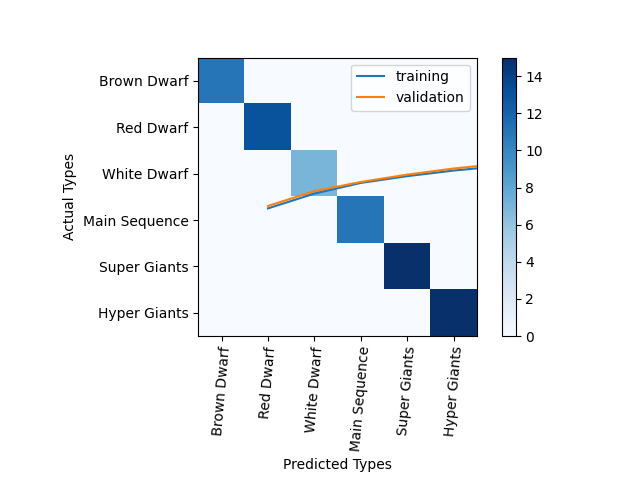
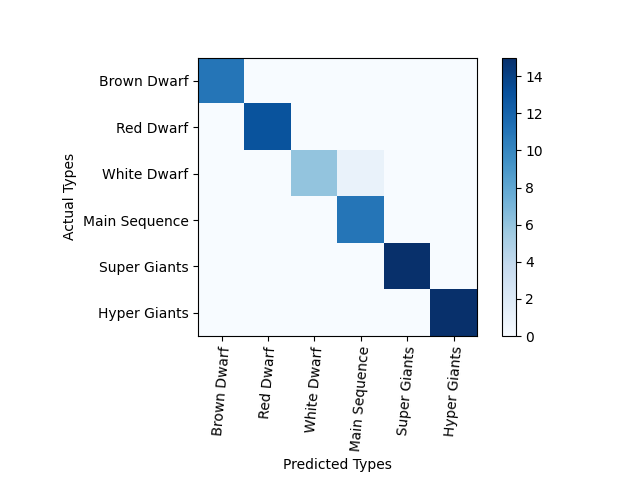
fixed supervision

diff --git a/ml-train.py b/ml-train.py
@@ -13,18 +13,12 @@ stars_classes = ['Brown Dwarf', 'Red Dwarf', 'White Dwarf', 'Main Sequence', 'Su
 
 # Scale the data
 # Scale the columns "Temperature (K)", "Luminosity(L/Lo)", "Radius(R/Ro)", "Absolute magnitude(Mv)"
-stars['Temperature (K)'] = stars['Temperature (K)'].apply(
-    lambda x: (x - stars['Temperature (K)'].min()) / (stars['Temperature (K)'].max() - stars['Temperature (K)'].min()))
-stars['Luminosity(L/Lo)'] = stars['Luminosity(L/Lo)'].apply(lambda x: (x - stars['Luminosity(L/Lo)'].min()) / (
-            stars['Luminosity(L/Lo)'].max() - stars['Luminosity(L/Lo)'].min()))
-stars['Radius(R/Ro)'] = stars['Radius(R/Ro)'].apply(
-    lambda x: (x - stars['Radius(R/Ro)'].min()) / (stars['Radius(R/Ro)'].max() - stars['Radius(R/Ro)'].min()))
-stars['Absolute magnitude(Mv)'] = stars['Absolute magnitude(Mv)'].apply(
-    lambda x: (x - stars['Absolute magnitude(Mv)'].min()) / (
-                stars['Absolute magnitude(Mv)'].max() - stars['Absolute magnitude(Mv)'].min()))
+stars['Temperature (K)'] = stars['Temperature (K)'].apply(lambda x: (x - stars['Temperature (K)'].min()) / (stars['Temperature (K)'].max() - stars['Temperature (K)'].min()))
+stars['Luminosity(L/Lo)'] = stars['Luminosity(L/Lo)'].apply(lambda x: (x - stars['Luminosity(L/Lo)'].min()) / (stars['Luminosity(L/Lo)'].max() - stars['Luminosity(L/Lo)'].min()))
+stars['Radius(R/Ro)'] = stars['Radius(R/Ro)'].apply(lambda x: (x - stars['Radius(R/Ro)'].min()) / (stars['Radius(R/Ro)'].max() - stars['Radius(R/Ro)'].min()))
+stars['Absolute magnitude(Mv)'] = stars['Absolute magnitude(Mv)'].apply(lambda x: (x - stars['Absolute magnitude(Mv)'].min()) / (stars['Absolute magnitude(Mv)'].max() - stars['Absolute magnitude(Mv)'].min()))
 
-features = ['Temperature (K)', 'Luminosity(L/Lo)', 'Radius(R/Ro)', 'Absolute magnitude(Mv)', 'Star type', 'Star color',
-            'Spectral Class']
+features = ['Temperature (K)', 'Luminosity(L/Lo)', 'Radius(R/Ro)', 'Absolute magnitude(Mv)', 'Star color', 'Spectral Class']
 label = 'Star type'
 
 # Split data 70%-30% into training and test sets
@@ -32,13 +26,6 @@ x_train, x_test, y_train, y_test = train_test_split(stars[features].values,
                                                     stars[label].values,
                                                     test_size=0.30,
                                                     random_state=0)
-
-# print('Training Set: %d, Test Set: %d \n' % (len(x_train), len(x_test)))
-# print("Sample of features and labels:")
-
-# Take a look at the first 25 training features and corresponding labels
-# for n in range(0, 24):
-#     print(x_train[n], y_train[n], '(' + stars_classes[y_train[n]] + ')')
 
 # Set random seed for reproducability
 tensorflow.random.set_seed(0)
